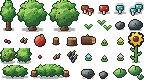
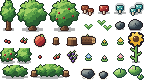
Lighter, smoother grass with random variants
Grass is a lighter green with broader, softer shading and far fewer
single-pixel specks. Rows 5-6 of grass_terrain.png now hold 12 full-grass
variants (soft patches, tufts, flowers, pebbles, clover) defined on the
grass terrain with low probabilities, so terrain painting mixes them in.
The test scene's existing plain grass cells were reshuffled with the new
tools/art/scatter_grass_variants.py.

Claude-Session: https://claude.ai/code/session_015WzoYxFS2SqXv5p4fwoGYK

diff --git a/tools/art/generate_nature_assets.py b/tools/art/generate_nature_assets.py
@@ -36,10 +36,16 @@ hexc = wl.hexc
 # ---------------------------------------------------------------- palette
 # Grass matches the Skyfall Village mockup; it replaces the Wildlands grass so
 # every grass tile in the game is the same green.
-GRASS = [hexc(c) for c in ("356640", "4e8c46", "62a94c", "84c25a", "b2dc76")]
+GRASS = [hexc(c) for c in ("3f7a44", "5e9e4e", "7fbf5c", "98d06a", "c2e68c")]
 wl.PAL["grass"] = GRASS
-GRASS_MID = tuple((a + b) // 2 for a, b in zip(GRASS[2], GRASS[3]))
-GRASS_LOW = tuple((a + b) // 2 for a, b in zip(GRASS[1], GRASS[2]))
+
+
+def mix(a, b, t):
+    return tuple(round(x + (y - x) * t) for x, y in zip(a, b))
+
+
+GRASS_MID = mix(GRASS[2], GRASS[3], .4)    # soft light patches
+GRASS_LOW = mix(GRASS[1], GRASS[2], .6)    # soft shade, tuft roots
 WATER = wl.PAL["water"]
 SOIL = [hexc(c) for c in ("4a2e24", "6a442e", "84583a", "9c6c46", "b8875a")]
 BARK = [hexc(c) for c in ("36221e", "503426", "704a32", "946642")]
@@ -103,28 +109,96 @@ def hash01(x, y, s=0):
 
 # ---------------------------------------------------------------- terrain sheets
 def grass_fill(H, W, ox=0, oy=0):
-    """Calm village-style grass: two soft tones, sparse speckles and small tufts.
-    Tufts stay inside each 16px cell so tile edges always line up."""
+    """Smooth, light village-style grass: two close tones in broad soft patches,
+    very few single-pixel specks and the odd small tuft. The patch pattern
+    repeats every 16px so any two grass tiles line up; tufts stay inside each
+    cell for the same reason."""
     ys, xs = np.mgrid[0:H, 0:W]
     n = wl.SHADE_N[(ys + oy) % T, (xs + ox) % T]
     out = np.zeros((H, W, 3), np.uint8)
     out[:] = GRASS[2]
-    out[n > .55] = GRASS_MID
+    out[n > .62] = GRASS_MID
+    out[n < .2] = GRASS_LOW
     for y in range(H):
         for x in range(W):
             gx, gy = x + ox, y + oy
-            r = hash01(gx, gy, 1)
-            if r > .975:
+            if hash01(gx, gy, 1) > .99:
                 out[y, x] = GRASS[3]
-            elif r < .025:
-                out[y, x] = GRASS_LOW
             tx, ty = gx % T, gy % T
-            if 2 <= tx <= 13 and 3 <= ty <= 14 and hash01(gx, gy, 7) < .018:
-                out[y, x] = GRASS[1]
+            if 2 <= tx <= 13 and 3 <= ty <= 14 and hash01(gx, gy, 7) < .006:
+                out[y, x] = GRASS_LOW
                 if y > 0:
                     out[y - 1, x - 1] = GRASS[3]
-                    out[y - 1, x + 1 if x + 1 < W else x] = GRASS[4]
+                    out[y - 1, x + 1 if x + 1 < W else x] = GRASS[3]
     return out
+
+
+# ---------------------------------------------------------------- grass variants
+# Full grass tiles that mix in at random when grass is painted with the terrain
+# tool. They live in rows 5-6, columns 0-5 of grass_terrain.png. Details stay
+# 2px inside the tile so they never break the seam with the next tile.
+def _blob(t, cx, cy, rx, ry, col, seed, rough=.25):
+    for y in range(2, 14):
+        for x in range(2, 14):
+            d = ((x + .5 - cx) / rx) ** 2 + ((y + .5 - cy) / ry) ** 2
+            if d < 1 - rough * hash01(x, y, seed):
+                t[y, x] = col
+
+
+def _tuft(t, x, y, tall=False):
+    t[y, x] = GRASS_LOW
+    t[y - 1, x - 1] = GRASS[3]
+    t[y - 1, x + 1] = GRASS[3]
+    t[y - 1, x] = GRASS_LOW
+    if tall:
+        t[y - 2, x] = GRASS[4]
+        t[y - 2, x - 1] = GRASS[3]
+
+
+def _flower(t, x, y, petal, centre):
+    for dx, dy in ((1, 0), (-1, 0), (0, -1)):
+        t[y + dy, x + dx] = petal
+    t[y + 1, x] = mix(petal, GRASS[1], .45)
+    t[y, x] = centre
+
+
+def _pebble(t, x, y, w):
+    for k in range(w):
+        t[y, x + k] = hexc("d4d8cc") if k == 0 else hexc("b0b6aa")
+        t[y + 1, x + k] = hexc("8a948c")
+    t[y + 1, x - 1] = GRASS_LOW
+    t[y + 2, x:x + w] = GRASS_LOW
+
+
+def grass_variants():
+    white, pink, blue, yellow = hexc("f6f4e8"), hexc("f4a8c4"), hexc("a8c8f4"), hexc("f6d860")
+    sun = hexc("f2c24a")
+    plans = [
+        lambda t: _blob(t, 8, 8, 5, 4, GRASS_MID, 1),                        # light patch
+        lambda t: _blob(t, 7, 9, 5, 3.5, GRASS_LOW, 2),                       # shade patch
+        lambda t: [_tuft(t, 4, 6), _tuft(t, 11, 9, True), _tuft(t, 6, 12)],
+        lambda t: [_flower(t, 5, 6, white, sun), _flower(t, 10, 10, white, sun)],
+        lambda t: [_flower(t, 4, 9, pink, white), _flower(t, 10, 5, blue, white), _tuft(t, 11, 12)],
+        lambda t: [_pebble(t, 5, 8, 3), _pebble(t, 10, 11, 2)],
+        lambda t: [_blob(t, 8, 8, 4, 3, GRASS_MID, 3), _tuft(t, 8, 9, True)],
+        lambda t: [_tuft(t, 3, 11, True), _tuft(t, 6, 10, True), _tuft(t, 9, 11, True), _tuft(t, 12, 10)],
+        lambda t: [_flower(t, 6, 5, yellow, hexc("e08a3a")), _flower(t, 11, 8, yellow, hexc("e08a3a")),
+                   _flower(t, 5, 11, yellow, hexc("e08a3a"))],
+        lambda t: [_blob(t, 8, 9, 4, 3, GRASS[3], 4, .5), _blob(t, 8, 9, 2, 1.5, GRASS[4], 5)],  # clover
+        lambda t: [_pebble(t, 9, 6, 2), _tuft(t, 5, 11), _flower(t, 11, 11, white, sun)],
+        lambda t: [_flower(t, 4, 5, pink, white), _flower(t, 8, 8, pink, white), _flower(t, 11, 12, white, sun)],
+    ]
+    tiles = []
+    for i, plan in enumerate(plans):
+        col, row = i % 6, 5 + i // 6
+        t = grass_fill(T, T, col * T, row * T)
+        plan(t)
+        tiles.append((col, row, t))
+    return tiles
+
+
+GRASS_VARIANT_PROB = {0: .25, 1: .25}  # by index; the rest use DETAIL_PROB
+DETAIL_PROB = .04
 
 
 _paint_fill = wl.paint_fill
@@ -158,9 +232,6 @@ def grass_sheet():
         (234, 225, 120): hexc("f2cf5a"),  # flower heads
     }
     sheet = recolor(os.path.join(ASSETS, "Tilesets", "Grass.png"), rules, lambda x, y: tex[y, x])
-    # rows 5-6 are decoration tiles: soften their dark patches
-    deco = sheet[5 * T:, :]
-    deco[(deco[..., 3] > 0) & np.all(deco[..., :3] == GRASS[1], -1)] = rgba(GRASS_LOW)
     # a highlight row just inside the top rim so edges read as a raised lip
     a = sheet[..., 3] > 0
     for y in range(1, sheet.shape[0] - 1):
@@ -168,6 +239,11 @@ def grass_sheet():
             if a[y, x] and tuple(sheet[y - 1, x, :3]) == GRASS[1] and tuple(sheet[y, x, :3]) not in (GRASS[0], GRASS[1]):
                 if a[y + 1, x] and hash01(x, y, 3) < .7:
                     sheet[y, x] = rgba(GRASS[3])
+    for col, row, t in grass_variants():
+        sheet[row * T:(row + 1) * T, col * T:(col + 1) * T] = np.concatenate([t, np.full((T, T, 1), 255, np.uint8)], -1)
+    # the remaining cells of rows 5-6 are see-through decals: keep them soft
+    deco = sheet[5 * T:, 6 * T:]
+    deco[(deco[..., 3] > 0) & np.all(deco[..., :3] == GRASS[1], -1)] = rgba(GRASS_LOW)
     return sheet
 
 
@@ -589,6 +665,32 @@ def wildlands_source_lines(tiles, terrain_set):
     return lines
 
 
+PEER8 = ["right_side", "bottom_right_corner", "bottom_side", "bottom_left_corner",
+         "left_side", "top_left_corner", "top_side", "top_right_corner"]
+
+
+def update_grass_variants():
+    """(Re)define the full-grass variant tiles in source 2 (grass terrain) of
+    game_tilesets.tres, so terrain painting mixes them in at random."""
+    path = os.path.join(GAME, "tilesets", "game_tilesets.tres")
+    text = open(path).read()
+    head = '[sub_resource type="TileSetAtlasSource" id="TileSetAtlasSource_oxjs0"]\n'
+    start = text.index(head) + len(head)
+    end = text.index("\n[sub_resource", start)
+    keep = [ln for ln in text[start:end].split("\n")
+            if not re.match(r"^[0-5]:[56]/", ln)]
+    while keep and keep[-1] == "":
+        keep.pop()
+    for i in range(12):
+        k = f"{i % 6}:{5 + i // 6}/0"
+        keep += [f"{k} = 0", f"{k}/probability = {GRASS_VARIANT_PROB.get(i, DETAIL_PROB)}",
+                 f"{k}/terrain_set = 0", f"{k}/terrain = 0"]
+        keep += [f"{k}/terrains_peering_bit/{b} = 0" for b in PEER8]
+    text = text[:start] + "\n".join(keep) + "\n" + text[end:]
+    open(path, "w").write(text)
+    print("updated tilesets/game_tilesets.tres (grass variants)")
+
+
 def update_game_tileset(tiles):
     """Rewrite source 6 (Wildlands, terrain set 1) inside tilesets/game_tilesets.tres."""
     path = os.path.join(GAME, "tilesets", "game_tilesets.tres")
@@ -618,6 +720,7 @@ def main():
     save(sheet, "Tilesets", "Wildlands", "wildlands_terrain.png")
     save(np.asarray(wl.grade_dusk(Image.fromarray(sheet, "RGBA"))), "Tilesets", "Wildlands", "wildlands_terrain_dusk.png")
     update_game_tileset(tiles)
+    update_grass_variants()
     for suffix in ("", "_dusk"):  # standalone TileSets, same tiles as source 6 of game_tilesets.tres
         name = f"wildlands_terrain{suffix}"
         wl.write_tres(os.path.join(ASSETS, "Tilesets", "Wildlands", name + ".tres"),

diff --git a/tools/art/scatter_grass_variants.py b/tools/art/scatter_grass_variants.py
@@ -1,0 +1,44 @@
+"""Swap plain grass cells in a scene's Grass TileMapLayer for random grass variants.
+
+Painting with the terrain tool in Godot already mixes the variants in; this is
+for grass that was placed before the variants existed.
+
+Usage (from the repo root):
+  python3 tools/art/scatter_grass_variants.py skybloom-game/scenes/main/main_test_scene_objects_trees.tscn
+"""
+import base64
+import random
+import re
+import struct
+import sys
+
+sys.path.insert(0, __import__("os").path.dirname(__file__))
+from generate_nature_assets import GRASS_VARIANT_PROB, DETAIL_PROB  # noqa: E402
+
+GRASS_SOURCE = 2
+PLAIN = (1, 1)
+LAYER = "Grass"
+
+
+def main(path):
+    text = open(path).read()
+    m = re.search(r'(\[node name="%s" type="TileMapLayer"[^\n]*\n(?:[^\[][^\n]*\n)*?tile_map_data = PackedByteArray\(")([^"]*)' % LAYER, text)
+    data = bytearray(base64.b64decode(m.group(2)))
+    choices = [PLAIN] + [(i % 6, 5 + i // 6) for i in range(12)]
+    weights = [1.0] + [GRASS_VARIANT_PROB.get(i, DETAIL_PROB) for i in range(12)]
+    rng = random.Random(7)
+    swapped = 0
+    for off in range(2, len(data), 12):
+        x, y, src, ax, ay, alt = struct.unpack_from("<hhHHHH", data, off)
+        if src == GRASS_SOURCE and alt == 0 and ((ax, ay) == PLAIN or (ax, ay) in choices):
+            nx, ny = rng.choices(choices, weights)[0]
+            struct.pack_into("<HH", data, off + 6, nx, ny)
+            swapped += (nx, ny) != PLAIN
+    text = text[:m.start(2)] + base64.b64encode(bytes(data)).decode() + text[m.end(2):]
+    open(path, "w").write(text)
+    print(f"{path}: {swapped} grass cells now use a variant")
+
+
+if __name__ == "__main__":
+    for p in sys.argv[1:]:
+        main(p)
